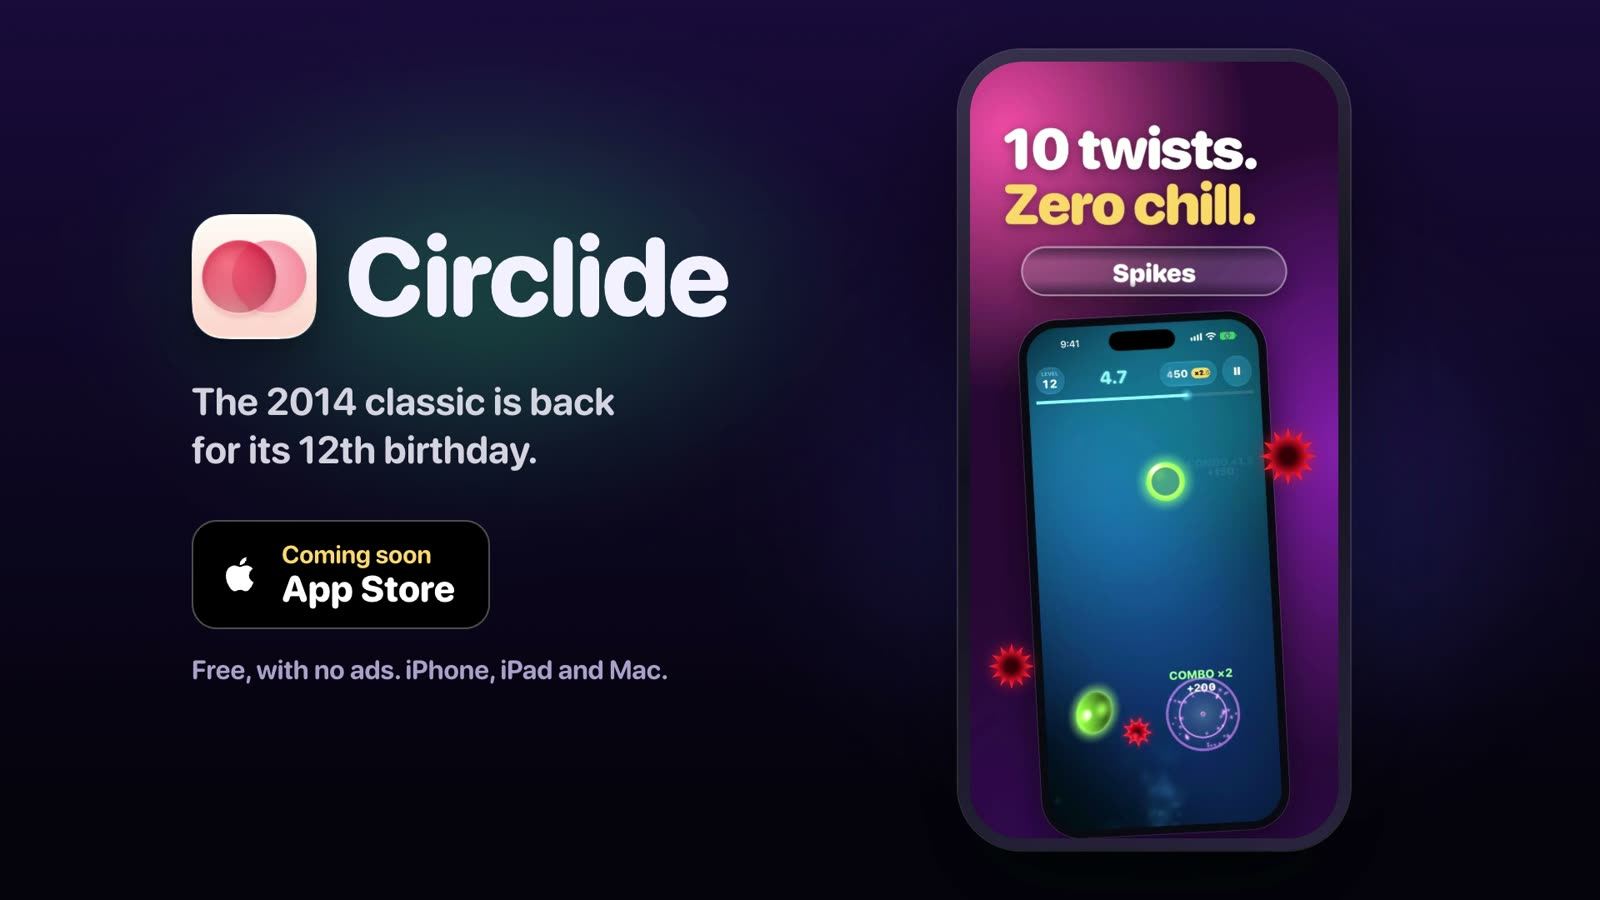
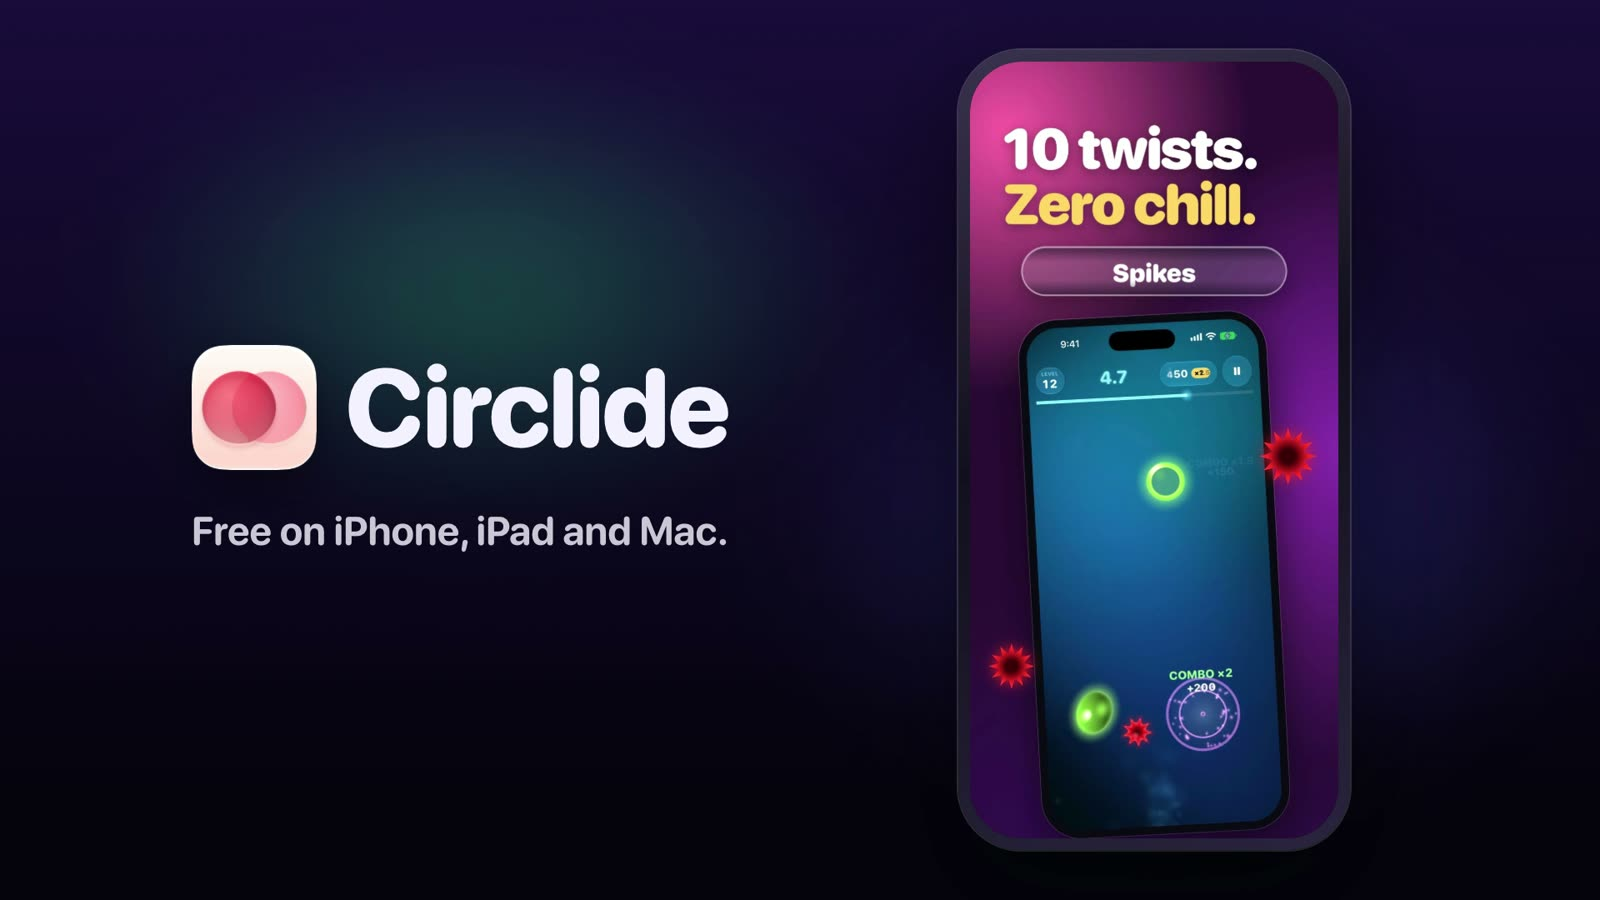
Circlide: the trailer is a pure trailer now (no Coming soon, no 2014 line)
Claude-Session: https://claude.ai/code/session_016mBskG7J49QkdiP376QdVe

Changed region(s): [[0.0938, 0.2178, 0.4688, 0.5289], [0.0938, 0.56, 0.4688, 0.7778]]

diff --git a/Circlide/index.html b/Circlide/index.html
@@ -11,7 +11,7 @@
   blue curtains; coral is the logo's front disc, gold is Theme.gold. Type is the app's SF Pro Rounded.
 
   Under the hero, the trailer: the App Store preview framed 16:9 (Circlide/build/sitevideo), on YouTube as
-  _Y1NFMjN3-0. It loads only when played (youtube-nocookie), so the page itself sets no YouTube cookies;
+  kZ0a-xDjD5Y. It loads only when played (youtube-nocookie), so the page itself sets no YouTube cookies;
   until then it's assets/video-poster.jpg, a frame of the same film.
 
   The phone loops real gameplay: an 18-second recording of the 2.0 build on autopilot in the Ember world
@@ -481,9 +481,9 @@
             </section>
 
             <section class="film rise" style="--i: 4" aria-label="Trailer">
-                <a href="https://youtu.be/_Y1NFMjN3-0" id="film">
+                <a href="https://youtu.be/kZ0a-xDjD5Y" id="film">
                     <img src="assets/video-poster.jpg" width="1600" height="900" loading="lazy"
-                         alt="The Circlide trailer: the game on iPhone next to the Circlide name and a Coming soon App Store badge">
+                         alt="The Circlide trailer: the game on iPhone next to the Circlide name">
                     <span class="play" aria-hidden="true"></span>
                     <span class="visually-hidden">Play the Circlide trailer</span>
                 </a>
@@ -509,7 +509,7 @@
     document.getElementById('film').addEventListener('click', e => {
         e.preventDefault();
         const f = document.createElement('iframe');
-        f.src = 'https://www.youtube-nocookie.com/embed/_Y1NFMjN3-0?autoplay=1&rel=0&playsinline=1';
+        f.src = 'https://www.youtube-nocookie.com/embed/kZ0a-xDjD5Y?autoplay=1&rel=0&playsinline=1';
         f.title = 'Circlide — Drag. Match. Again!';
         f.allow = 'autoplay; encrypted-media; picture-in-picture; fullscreen';
         f.allowFullscreen = true;
